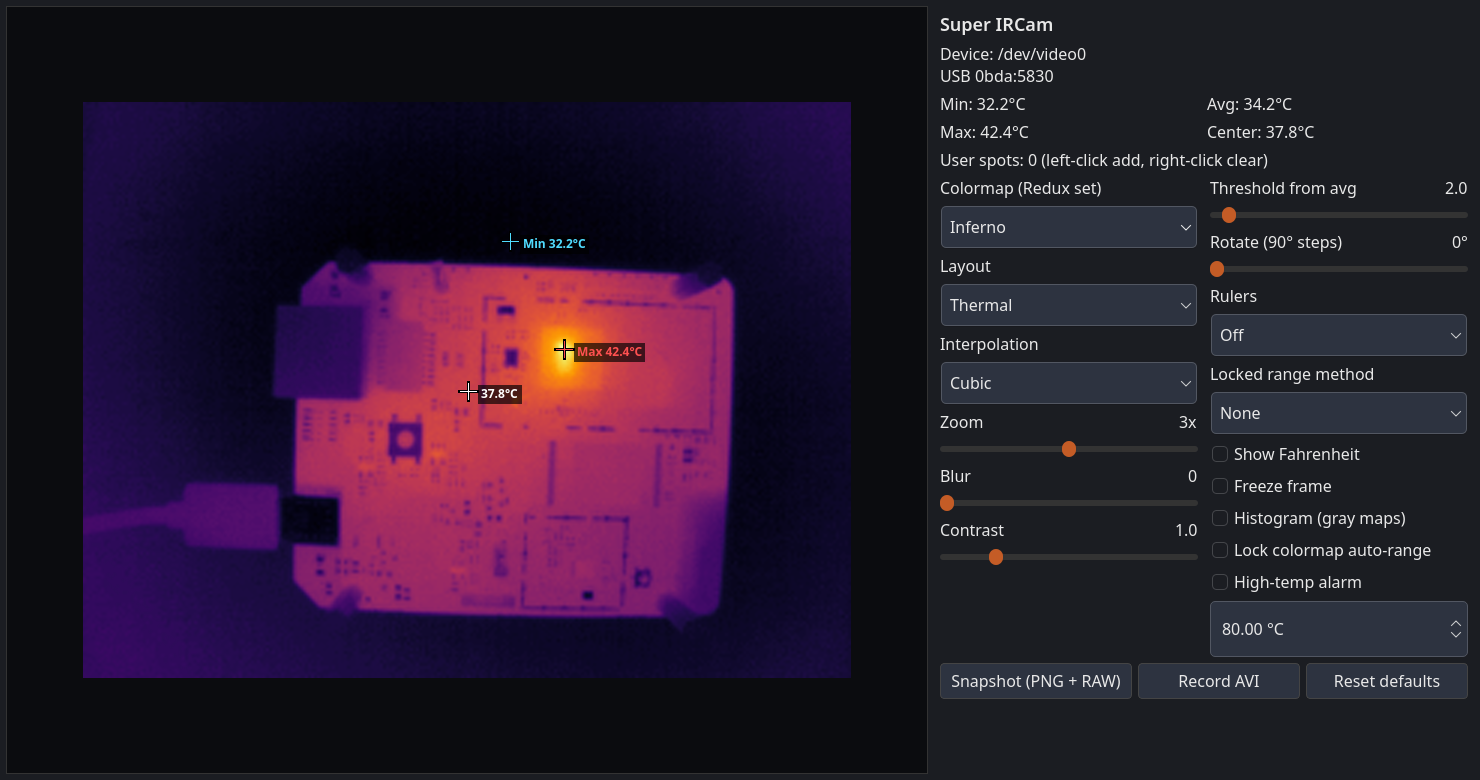
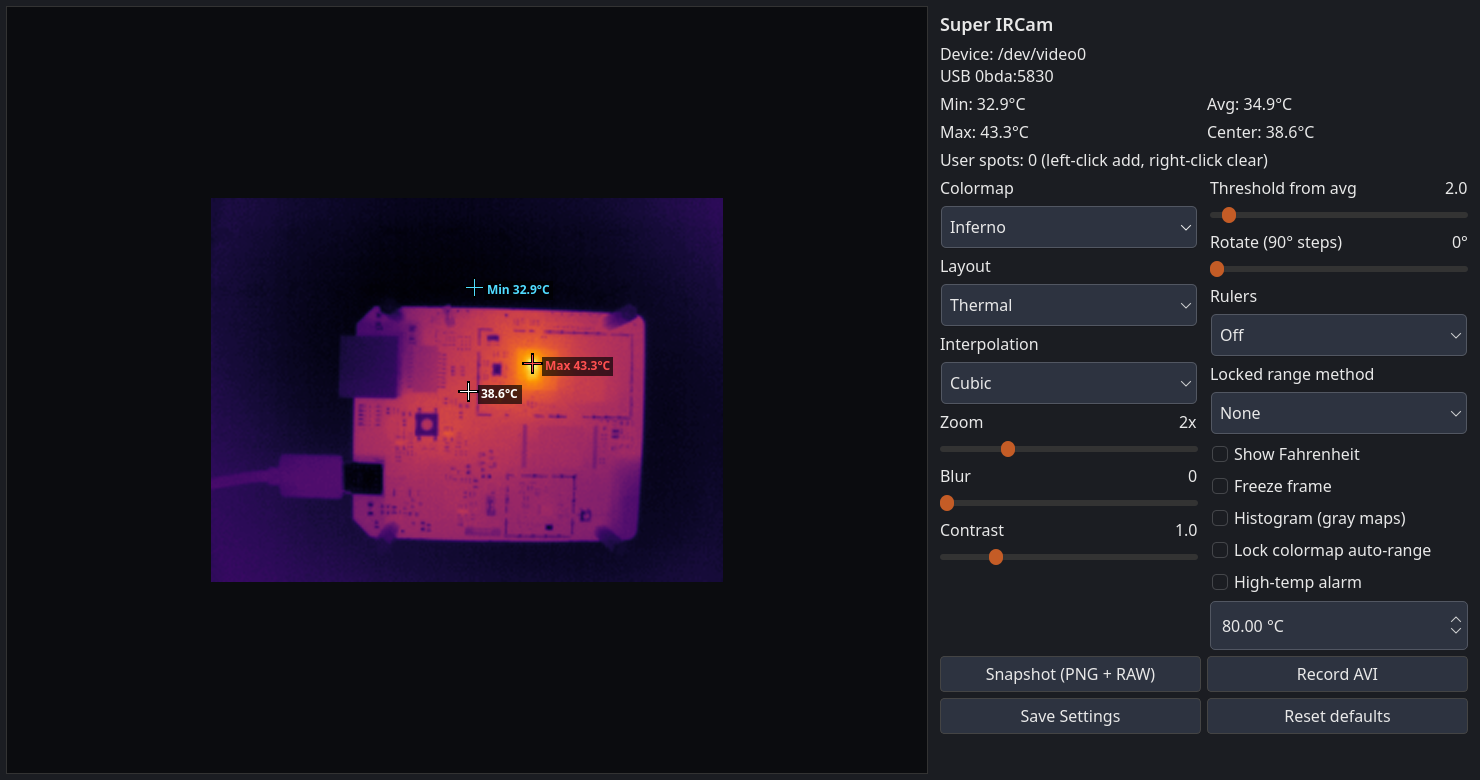
Fix AVI recording crash and refresh README screenshots.
Store the encoder frame size instead of querying OpenCV (which returned 0x0 and aborted on resize), persist UI settings, and replace gallery shots with the current two-column panel.

diff --git a/gui/src/MainWindow.cpp b/gui/src/MainWindow.cpp
@@ -8,7 +8,12 @@
 #include <QDoubleSpinBox>
 #include <QEvent>
 #include <QFile>
+#include <QFileInfo>
 #include <QGridLayout>
+#include <QJsonDocument>
+#include <QJsonObject>
+#include <QJsonParseError>
+#include <QJsonValue>
 #include <QGroupBox>
 #include <QHBoxLayout>
 #include <QIcon>
@@ -141,7 +146,7 @@ MainWindow::MainWindow(QWidget *parent) : QMainWindow(parent) {
   m_cmap = new QComboBox;
   m_cmap->addItems(cmapNames());
   m_cmap->setCurrentIndex(defaultCmapIndex());
-  addLabeled(left, "Colormap (Redux set)", m_cmap);
+  addLabeled(left, "Colormap", m_cmap);
 
   m_layout = new QComboBox;
   m_layout->addItems({"Thermal", "Image", "Img+Therm wide", "Img+Therm high"});
@@ -231,13 +236,18 @@ MainWindow::MainWindow(QWidget *parent) : QMainWindow(parent) {
   m_snapshot = new QPushButton("Snapshot (PNG + RAW)");
   m_record = new QPushButton("Record AVI");
   m_record->setCheckable(true);
+  m_saveSettings = new QPushButton("Save Settings");
   m_reset = new QPushButton("Reset defaults");
   auto *btns = new QHBoxLayout;
   btns->setContentsMargins(0, 0, 0, 0);
   btns->addWidget(m_snapshot);
   btns->addWidget(m_record);
-  btns->addWidget(m_reset);
   box->addLayout(btns);
+  auto *btns2 = new QHBoxLayout;
+  btns2->setContentsMargins(0, 0, 0, 0);
+  btns2->addWidget(m_saveSettings);
+  btns2->addWidget(m_reset);
+  box->addLayout(btns2);
   m_recordLabel = new QLabel;
   m_recordLabel->setWordWrap(true);
   box->addWidget(m_recordLabel);
@@ -250,7 +260,9 @@ MainWindow::MainWindow(QWidget *parent) : QMainWindow(parent) {
 
   connect(m_snapshot, &QPushButton::clicked, this, &MainWindow::onSnapshot);
   connect(m_record, &QPushButton::clicked, this, &MainWindow::onRecordToggle);
+  connect(m_saveSettings, &QPushButton::clicked, this, &MainWindow::onSaveSettings);
   connect(m_reset, &QPushButton::clicked, this, &MainWindow::onReset);
+  loadSettings();
 
   ThermalDevice dev;
   QString err;
@@ -325,6 +337,118 @@ void MainWindow::onReset() {
   m_status->setText("Defaults restored.");
 }
 
+QString MainWindow::settingsFilePath() const {
+  const QString dir = QStandardPaths::writableLocation(QStandardPaths::AppConfigLocation);
+  return QDir(dir).filePath("settings.json");
+}
+
+bool MainWindow::saveSettings() {
+  const QString path = settingsFilePath();
+  QDir().mkpath(QFileInfo(path).absolutePath());
+
+  QJsonObject obj;
+  obj["version"] = 1;
+  obj["colormap"] = m_cmap->currentText();
+  obj["layout"] = m_layout->currentIndex();
+  obj["interpolation"] = m_inter->currentIndex();
+  obj["zoom"] = m_zoom->value();
+  obj["blur"] = m_blur->value();
+  obj["contrast"] = m_contrast->value();
+  obj["threshold"] = m_threshold->value();
+  obj["rotate"] = m_rotate->value();
+  obj["rulers"] = m_rulers->currentIndex();
+  obj["rangeMode"] = m_rangeMode->currentIndex();
+  obj["fahrenheit"] = m_fahrenheit->isChecked();
+  obj["histogram"] = m_histogram->isChecked();
+  obj["lockRange"] = m_lockRange->isChecked();
+  obj["alarmOn"] = m_alarmOn->isChecked();
+  obj["alarmC"] = m_alarmC->value();
+  QJsonObject win;
+  win["x"] = x();
+  win["y"] = y();
+  win["w"] = width();
+  win["h"] = height();
+  obj["window"] = win;
+
+  QFile f(path);
+  if (!f.open(QIODevice::WriteOnly | QIODevice::Truncate)) {
+    m_status->setText(QString("Could not write %1").arg(path));
+    return false;
+  }
+  f.write(QJsonDocument(obj).toJson(QJsonDocument::Indented));
+  m_status->setText(QString("Settings saved to %1").arg(path));
+  return true;
+}
+
+void MainWindow::onSaveSettings() {
+  saveSettings();
+}
+
+void MainWindow::loadSettings() {
+  const QString path = settingsFilePath();
+  QFile f(path);
+  if (!f.exists() || !f.open(QIODevice::ReadOnly)) {
+    return;
+  }
+  QJsonParseError err;
+  const QJsonDocument doc = QJsonDocument::fromJson(f.readAll(), &err);
+  if (err.error != QJsonParseError::NoError || !doc.isObject()) {
+    m_status->setText(QString("Settings file is invalid: %1").arg(path));
+    return;
+  }
+  const QJsonObject obj = doc.object();
+  const int cmap = m_cmap->findText(obj.value("colormap").toString());
+  if (cmap >= 0) {
+    m_cmap->setCurrentIndex(cmap);
+  }
+  const auto setCombo = [](QComboBox *box, const QJsonValue &v) {
+    if (!v.isDouble()) {
+      return;
+    }
+    const int i = v.toInt();
+    if (i >= 0 && i < box->count()) {
+      box->setCurrentIndex(i);
+    }
+  };
+  setCombo(m_layout, obj.value("layout"));
+  setCombo(m_inter, obj.value("interpolation"));
+  setCombo(m_rulers, obj.value("rulers"));
+  setCombo(m_rangeMode, obj.value("rangeMode"));
+  if (obj.contains("zoom")) {
+    m_zoom->setValue(obj.value("zoom").toInt(m_zoom->value()));
+  }
+  if (obj.contains("blur")) {
+    m_blur->setValue(obj.value("blur").toInt(m_blur->value()));
+  }
+  if (obj.contains("contrast")) {
+    m_contrast->setValue(obj.value("contrast").toInt(m_contrast->value()));
+  }
+  if (obj.contains("threshold")) {
+    m_threshold->setValue(obj.value("threshold").toInt(m_threshold->value()));
+  }
+  if (obj.contains("rotate")) {
+    m_rotate->setValue(obj.value("rotate").toInt(m_rotate->value()));
+  }
+  m_fahrenheit->setChecked(obj.value("fahrenheit").toBool(false));
+  m_histogram->setChecked(obj.value("histogram").toBool(false));
+  m_lockRange->setChecked(obj.value("lockRange").toBool(false));
+  m_alarmOn->setChecked(obj.value("alarmOn").toBool(false));
+  if (obj.contains("alarmC")) {
+    m_alarmC->setValue(obj.value("alarmC").toDouble(m_alarmC->value()));
+  }
+  const QJsonObject win = obj.value("window").toObject();
+  if (!win.isEmpty() && win.contains("w") && win.contains("h")) {
+    const int w = win.value("w").toInt(width());
+    const int h = win.value("h").toInt(height());
+    if (w >= minimumWidth() && h >= minimumHeight()) {
+      resize(w, h);
+    }
+    if (win.contains("x") && win.contains("y")) {
+      move(win.value("x").toInt(x()), win.value("y").toInt(y()));
+    }
+  }
+}
+
 void MainWindow::onError(const QString &message) {
   m_status->setText(message);
 }
@@ -365,22 +489,34 @@ void MainWindow::onRecordToggle() {
     m_status->setText("No frame to record yet.");
     return;
   }
-  startRecorder(m_lastPixmap.size());
+  try {
+    startRecorder(m_lastPixmap.size());
+  } catch (const cv::Exception &e) {
+    m_recording = false;
+    m_record->setChecked(false);
+    m_status->setText(QString("AVI open failed: %1").arg(e.what()));
+  }
 }
 
 void MainWindow::startRecorder(const QSize &frameSize) {
   const QString dir = QStandardPaths::writableLocation(QStandardPaths::MoviesLocation);
   QDir().mkpath(dir);
   const QString stamp = QDateTime::currentDateTime().toString("yyyyMMdd-HHmmss");
-  m_recordPath = QString("%1/super-ircam-%2_output.avi").arg(dir, stamp);
-  const cv::Size sz(frameSize.width(), frameSize.height());
-  bool ok = m_writer.open(m_recordPath.toStdString(),
-                          cv::VideoWriter::fourcc('X', 'V', 'I', 'D'), 25.0, sz, true);
-  if (!ok) {
-    ok = m_writer.open(m_recordPath.toStdString(),
-                       cv::VideoWriter::fourcc('M', 'J', 'P', 'G'), 25.0, sz, true);
+  m_recordPath = QString("%1/super-ircam-%2.avi").arg(dir, stamp);
+  int w = frameSize.width() & ~1;
+  int h = frameSize.height() & ~1;
+  if (w < 2 || h < 2) {
+    m_status->setText("Frame too small to record.");
+    m_record->setChecked(false);
+    return;
   }
+  m_recSize = cv::Size(w, h);
+  const std::string path = m_recordPath.toStdString();
+  bool ok = m_writer.open(path, cv::VideoWriter::fourcc('M', 'J', 'P', 'G'), 25.0, m_recSize, true);
   if (!ok) {
+    ok = m_writer.open(path, cv::VideoWriter::fourcc('X', 'V', 'I', 'D'), 25.0, m_recSize, true);
+  }
+  if (!ok || !m_writer.isOpened()) {
     m_status->setText("Could not open AVI writer.");
     m_recording = false;
     m_record->setChecked(false);
@@ -388,6 +524,7 @@ void MainWindow::startRecorder(const QSize &frameSize) {
   }
   m_recording = true;
   m_recFrames = 0;
+  m_record->setChecked(true);
   m_recordLabel->setText("Recording " + m_recordPath);
 }
 
@@ -396,6 +533,7 @@ void MainWindow::stopRecorder() {
     m_writer.release();
   }
   m_recording = false;
+  m_recSize = cv::Size();
 }
 
 float MainWindow::displayTemp(float celsius) const {
@@ -756,19 +894,29 @@ void MainWindow::onFrame(const QVector<float> &celsius, const QImage &visualY,
   m_image->setPixmap(m_lastPixmap);
 
   if (m_recording && m_writer.isOpened()) {
-    QImage rgb = img.convertToFormat(QImage::Format_RGB888);
-    cv::Mat mat(rgb.height(), rgb.width(), CV_8UC3, rgb.bits(), rgb.bytesPerLine());
-    cv::Mat bgr;
-    cv::cvtColor(mat, bgr, cv::COLOR_RGB2BGR);
-    if (bgr.size() != cv::Size(static_cast<int>(m_writer.get(cv::CAP_PROP_FRAME_WIDTH)),
-                               static_cast<int>(m_writer.get(cv::CAP_PROP_FRAME_HEIGHT)))) {
-      cv::resize(bgr, bgr,
-                 cv::Size(static_cast<int>(m_writer.get(cv::CAP_PROP_FRAME_WIDTH)),
-                          static_cast<int>(m_writer.get(cv::CAP_PROP_FRAME_HEIGHT))));
+    try {
+      QImage rgb = img.convertToFormat(QImage::Format_RGB888);
+      cv::Mat mat(rgb.height(), rgb.width(), CV_8UC3, rgb.bits(),
+                  static_cast<size_t>(rgb.bytesPerLine()));
+      cv::Mat bgr;
+      cv::cvtColor(mat, bgr, cv::COLOR_RGB2BGR);
+      if (m_recSize.width > 0 && m_recSize.height > 0 && bgr.size() != m_recSize) {
+        cv::resize(bgr, bgr, m_recSize);
+      }
+      if (!bgr.empty() && !bgr.isContinuous()) {
+        bgr = bgr.clone();
+      }
+      if (!bgr.empty()) {
+        m_writer.write(bgr);
+        ++m_recFrames;
+        m_recordLabel->setText(
+            QString("Recording %1 frames → %2").arg(m_recFrames).arg(m_recordPath));
+      }
+    } catch (const cv::Exception &e) {
+      stopRecorder();
+      m_record->setChecked(false);
+      m_status->setText(QString("AVI write failed: %1").arg(e.what()));
     }
-    m_writer.write(bgr);
-    ++m_recFrames;
-    m_recordLabel->setText(QString("Recording %1 frames → %2").arg(m_recFrames).arg(m_recordPath));
   }
   emit frameReceived();
 }

diff --git a/gui/src/main.cpp b/gui/src/main.cpp
@@ -5,6 +5,8 @@
 #include <QDir>
 #include <QMetaType>
 
+#include <algorithm>
+
 int main(int argc, char *argv[]) {
   qRegisterMetaType<QVector<float>>("QVector<float>");
   qRegisterMetaType<QImage>("QImage");
@@ -22,10 +24,14 @@ int main(int argc, char *argv[]) {
   QCommandLineOption quitOpt("quit-after-shot", "Quit after --screenshot is written.");
   QCommandLineOption cmapOpt("cmap", "Colormap name (Jet, Inferno, Ironbow, ...).", "name");
   QCommandLineOption layoutOpt("layout", "Layout: thermal, image, wide, or high.", "name");
+  QCommandLineOption saveOpt("save-settings", "Write current UI settings to ~/.config/super-ircam/settings.json.");
+  QCommandLineOption recOpt("record-seconds", "Record AVI for N seconds after warmup, then stop.", "seconds");
   parser.addOption(shotOpt);
   parser.addOption(quitOpt);
   parser.addOption(cmapOpt);
   parser.addOption(layoutOpt);
+  parser.addOption(saveOpt);
+  parser.addOption(recOpt);
   parser.process(app);
 
   MainWindow window;
@@ -53,6 +59,34 @@ int main(int argc, char *argv[]) {
     window.setLayoutIndex(idx);
   }
   window.show();
+  if (parser.isSet(saveOpt)) {
+    window.saveSettings();
+    if (!parser.isSet(shotOpt) && !parser.isSet(recOpt)) {
+      return 0;
+    }
+  }
+
+  if (parser.isSet(recOpt)) {
+    const int seconds = std::max(1, parser.value(recOpt).toInt());
+    QObject::connect(
+        &window, &MainWindow::frameReceived, &app,
+        [&window, seconds]() {
+          static int frames = 0;
+          static bool started = false;
+          static bool stopped = false;
+          ++frames;
+          if (!started && frames >= 40) {
+            started = true;
+            window.onRecordToggle();
+          }
+          if (started && !stopped && frames >= 40 + seconds * 25) {
+            stopped = true;
+            window.onRecordToggle();
+            QApplication::quit();
+          }
+        },
+        Qt::QueuedConnection);
+  }
 
   if (parser.isSet(shotOpt)) {
     const QString path = parser.value(shotOpt);

diff --git a/gui/src/MainWindow.h b/gui/src/MainWindow.h
@@ -60,11 +60,13 @@ class MainWindow : public QMainWindow {
   void setZoom(int zoom);
   void setBlur(int radius);
   bool saveWindowShot(const QString &path);
+  bool saveSettings();
   bool hasFrame() const { return !m_celsius.isEmpty(); }
 
  public slots:
   void onSnapshot();
   void onRecordToggle();
+  void onSaveSettings();
   void onReset();
 
  signals:
@@ -89,6 +91,8 @@ class MainWindow : public QMainWindow {
   void updateTempLabels();
   void startRecorder(const QSize &frameSize);
   void stopRecorder();
+  QString settingsFilePath() const;
+  void loadSettings();
 
   CaptureThread *m_capture = nullptr;
   ImageCanvas *m_image = nullptr;
@@ -118,6 +122,7 @@ class MainWindow : public QMainWindow {
   QDoubleSpinBox *m_alarmC = nullptr;
   QPushButton *m_snapshot = nullptr;
   QPushButton *m_record = nullptr;
+  QPushButton *m_saveSettings = nullptr;
   QPushButton *m_reset = nullptr;
 
   QPixmap m_lastPixmap;
@@ -132,6 +137,7 @@ class MainWindow : public QMainWindow {
   bool m_lockInit = false;
   QString m_devicePath;
   cv::VideoWriter m_writer;
+  cv::Size m_recSize;
   bool m_recording = false;
   QString m_recordPath;
   int m_recFrames = 0;

diff --git a/README.md b/README.md
@@ -72,7 +72,8 @@ https://github.com/stulluk/Thermal-Camera-Redux
 - 37 Redux colormaps, 7 interpolations, 4 layouts
 - On-image max / min / center crosshairs with °C (or °F)
 - Up to 12 user spots (left-click add, right-click clear)
-- Snapshot PNG+RAW and AVI recording (XVID / MJPG)
+- Snapshot PNG+RAW and AVI recording (MJPG)
+- Save Settings to `~/.config/super-ircam/settings.json`
 - Start-menu and desktop launcher icons
 
 ## Build the `.deb` with Docker
